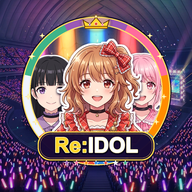
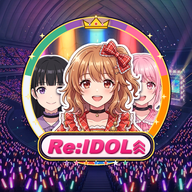
アイコンのロゴを公式風（ピンク斜体＋上向き矢印）に

Changed region(s): [[0.1875, 0.6875, 0.8125, 0.8438]]

diff --git a/sw.js b/sw.js
@@ -1,4 +1,4 @@
-const CACHE = 'reidol-5409986032';
+const CACHE = 'reidol-7e13a80028';
 const FILES = ["./", "index.html", "manifest.webmanifest", "assets/aira_face.jpg", "assets/aira_full.webp", "assets/arisu_face.jpg", "assets/arisu_full.webp", "assets/bg_1.jpg", "assets/bg_2.jpg", "assets/bg_3.jpg", "assets/bg_4.jpg", "assets/bg_5.jpg", "assets/bg_6.jpg", "assets/fuka_face.jpg", "assets/fuka_full.webp", "assets/nana_face.jpg", "assets/nana_full.webp", "assets/neiro_face.jpg", "assets/neiro_full.webp", "assets/ruri_face.jpg", "assets/ruri_full.webp", "assets/saaya_face.jpg", "assets/saaya_full.webp", "assets/story_0.jpg", "assets/story_1.jpg", "assets/story_2.jpg", "assets/story_3.jpg", "assets/story_4.jpg", "assets/story_5.jpg", "assets/story_6.jpg", "icons/icon_180.png", "icons/icon_192.png", "icons/icon_512.png"];
 self.addEventListener('install', e => { e.waitUntil(caches.open(CACHE).then(c => c.addAll(FILES)).then(() => self.skipWaiting())); });
 self.addEventListener('activate', e => { e.waitUntil(caches.keys().then(ks => Promise.all(ks.filter(k => k !== CACHE).map(k => caches.delete(k)))).then(() => self.clients.claim())); });
